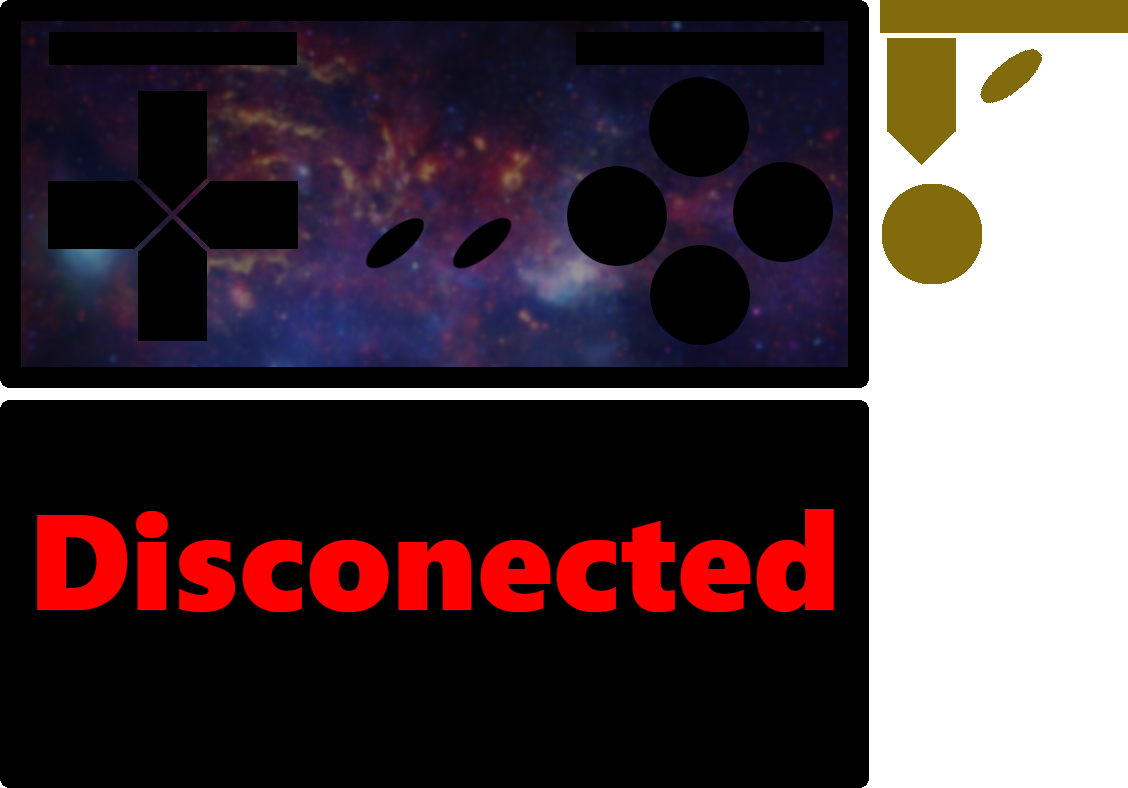
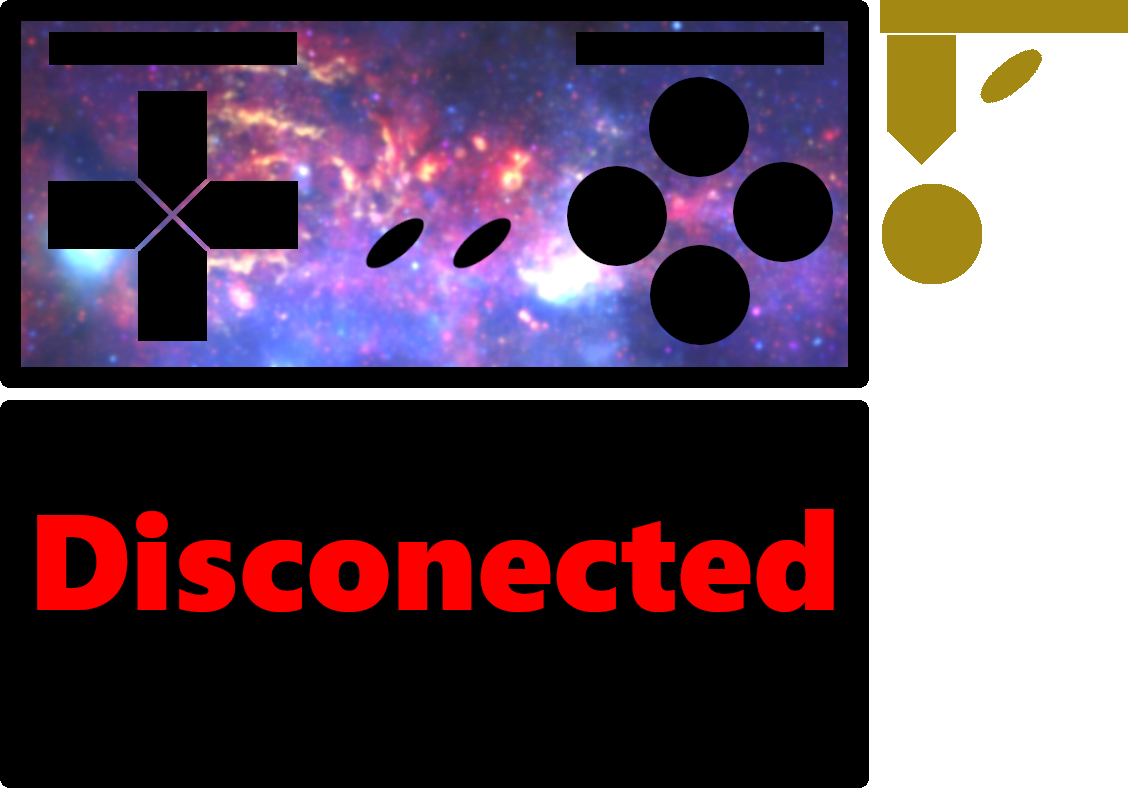
Aumenta o contraste entre as cores do gamepad

Changed region(s): [[0.0, 0.0, 1.0, 0.4873]]

diff --git a/assets/snes_gamepad/skin_galaxy.css b/assets/snes_gamepad/skin_galaxy.css
@@ -21,16 +21,16 @@
 
 /* The bumpers are housed inside a div, so this sizes the div properly and positions it */
 .custom .bumpers {
-    width: 775px;
+    width: 776px;
     height: 34px;
     position: absolute;
     top: 32px;
-    left: 49px;
+    left: 48px;
 }
 
 /* These are the actual bumpers themselves */
 .custom .bumper {
-    width: 248px;
+    width: 249px;
     height: 34px;
 }
 .custom .bumper.left {
@@ -41,7 +41,7 @@
 }
 .custom .bumper.left.pressed, .custom .bumper.right.pressed {
     background: url(snes_galaxy.png);
-    background-position: -880px 0;
+    background-position: -879px 0;
 }
 
 /* This is to size and position the containing div for the start and select buttons. */
@@ -105,20 +105,20 @@
 /* Dpad possitioning and sizing */
 .custom .dpad {
     position: absolute;
-    width: 250px;
+    width: 251px;
     height: 250px;
     top: 91px;
-    left: 48px;
+    left: 47px;
 }
 .custom .face {
     position: absolute;
 }
 .custom .face.up, .custom .face.down {
-    width: 69px;
+    width: 70px;
     height: 124px;
 }
 .custom .face.left, .custom .face.right {
-    width: 69px;
+    width: 70px;
     height: 124px;
 }
 .custom .face.up {
@@ -145,7 +145,7 @@
 }
 .custom .face.pressed {
     background: url(snes_galaxy.png);
-    background-position: -887px -44px;
+    background-position: -886px -44px;
 }
 .custom .down.face.pressed, .custom .face.right.pressed {
     background-position-y: -42px;
